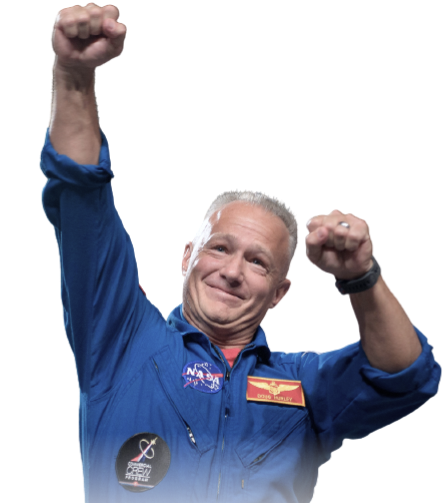
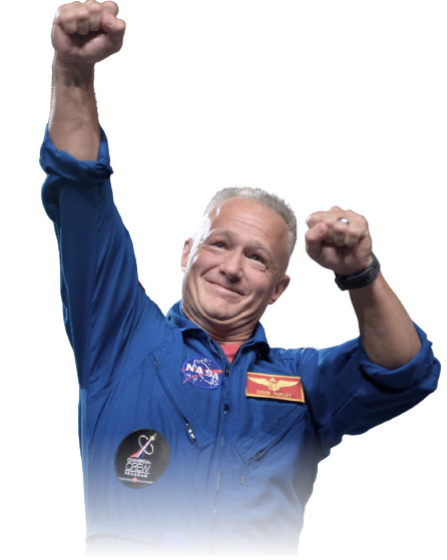
Crew --- добав. адаптивность под Tablet

diff --git a/src/scss/components/_tab_panel_pagination.scss b/src/scss/components/_tab_panel_pagination.scss
@@ -95,47 +95,75 @@
             }
         }
     }
+}
 
-    // &__button {
-    //     position: relative;
+//? --- TABLET ---
+//? --------------
+@media (min-width: 768px) and (max-width: 1439px) {
+    .tab-panel-pagination {
+        &__list {
+            column-gap: 16px;
+        }
 
-    //     width: calc(15px + 20px * 2);
-    //     aspect-ratio: 1 / 1;
+        &__button {
+            width: 10px;
+        }
 
-    //     background-color: transparent;
-    //     opacity: 17.44%;
+        // TODO: pagination tablet mode
+        // &--technology {
+        //     .tab-panel-pagination__list {
+        //         display: inline-flex;
+        //         flex-direction: column;
 
-    //     will-change: opacity;
-    //     transition: opacity 0.3s ease-in-out;
+        //         row-gap: 32px;
+        //     }
 
-    //     cursor: url("../../../public/assets/images/icons/pointer/pointer.svg") 3 0, auto;
+        //     // .tab-panel-pagination__item {
+        //     //     // display: inline-block;
+        //     // }
 
-    //     &::after {
-    //         position: absolute;
-    //         content: "";
+        //     .tab-panel-pagination__button {
+        //         @include typography.tp-4;
 
-    //         width: 15px;
-    //         height: 15px;
+        //         display: inline-flex;
 
-    //         border-radius: 50%;
-    //         background-color: colors.$color__white;
+        //         justify-content: center;
+        //         align-items: center;
 
-    //         top: 50%;
-    //         left: 50%;
+        //         width: 80px;
+        //         aspect-ratio: 1 / 1;
 
-    //         transform: translate(-50%, -50%);
-    //     }
+        //         color: colors.$color__white;
+        //         background-color: transparent;
 
-    //     &:hover {
-    //         opacity: 50%;
-    //     }
+        //         border: 1px solid rgba($color: colors.$color__white, $alpha: 0.25);
+        //         border-radius: 50%;
 
-    //     &:active {
-    //         opacity: 65%;
-    //     }
+        //         will-change: color, border-color, background-color;
+        //         transition: color 0.3s ease-in-out, border-color 0.3s ease-in-out, background-color 0.3s ease-in-out;
 
-    //     &.active {
-    //         opacity: 100%;
-    //     }
-    // }
+        //         opacity: 100%;
+
+        //         cursor: url("../../../public/assets/images/icons/pointer/pointer.svg") 3 0, auto;
+
+        //         &:hover {
+        //             border-color: colors.$color__white;
+        //         }
+
+        //         &:active {
+        //             border-color: colors.$color__white;
+        //             background-color: colors.$color__white;
+
+        //             color: colors.$color__blue-900;
+        //         }
+
+        //         &.active {
+        //             border-color: colors.$color__white;
+        //             background-color: colors.$color__white;
+
+        //             color: colors.$color__blue-900;
+        //         }
+        //     }
+        // }
+    }
 }

diff --git a/src/scss/components/_tab_panel.scss b/src/scss/components/_tab_panel.scss
@@ -146,5 +146,34 @@
             justify-content: space-around;
             column-gap: 24px;
         }
+
+        // &__header-group {
+        //     row-gap: 16px;
+        // }
+
+        &__surtitle {
+            text-align: center;
+        }
+
+        &--crew {
+            padding: 0;
+            padding-top: 40px;
+
+            row-gap: 24px;
+
+            .tab-panel__text {
+                height: 117px;
+            }
+
+            .tab-panel__tab {
+                // row-gap: 24px;
+                min-height: auto;
+                // justify-content: center;
+            }
+
+            // .tab-panel__title {
+            //     @include typography.tp-3;
+            // }
+        }
     }
 }

diff --git a/src/scss/sections/_crew.scss b/src/scss/sections/_crew.scss
@@ -30,3 +30,14 @@
         // padding: 29px 0;
     }
 }
+
+//? --- TABLET ---
+//? --------------
+@media (min-width: 768px) and (max-width: 1439px) {
+    .crew {
+        &__content {
+            flex-direction: column;
+            row-gap: 32px;
+        }
+    }
+}

diff --git a/src/scss/components/_pictures.scss b/src/scss/components/_pictures.scss
@@ -47,6 +47,11 @@
         &--destination {
             padding: 42px 0;
         }
+
+        &--crew {
+            max-width: 447px;
+            // height: 676px;
+        }
     }
 }
 
